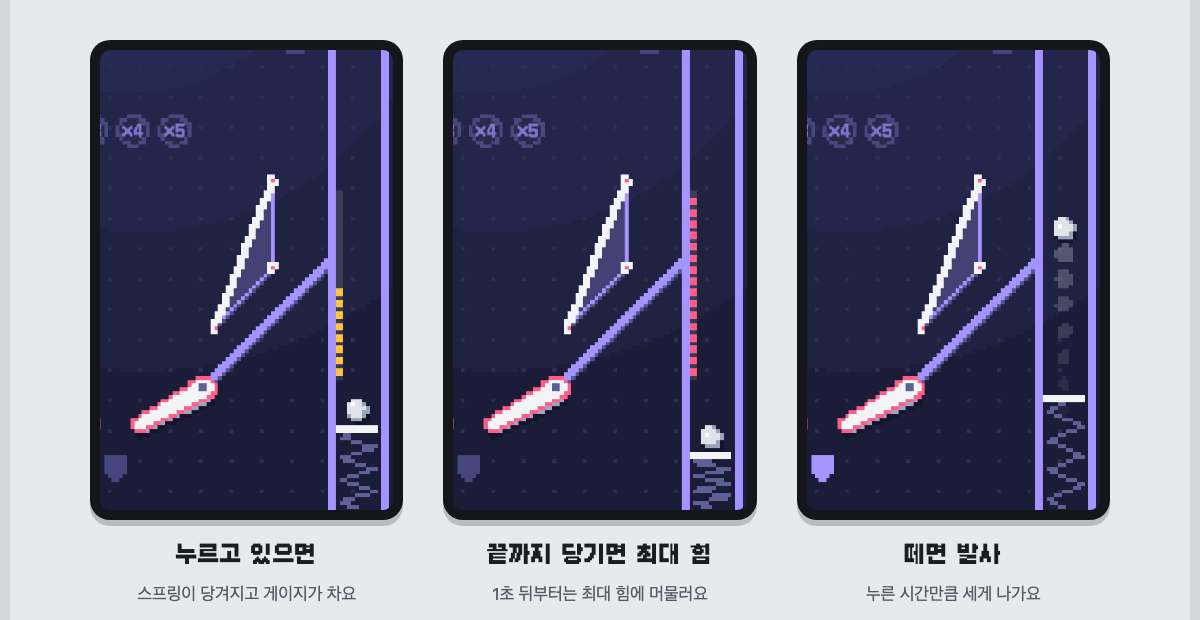
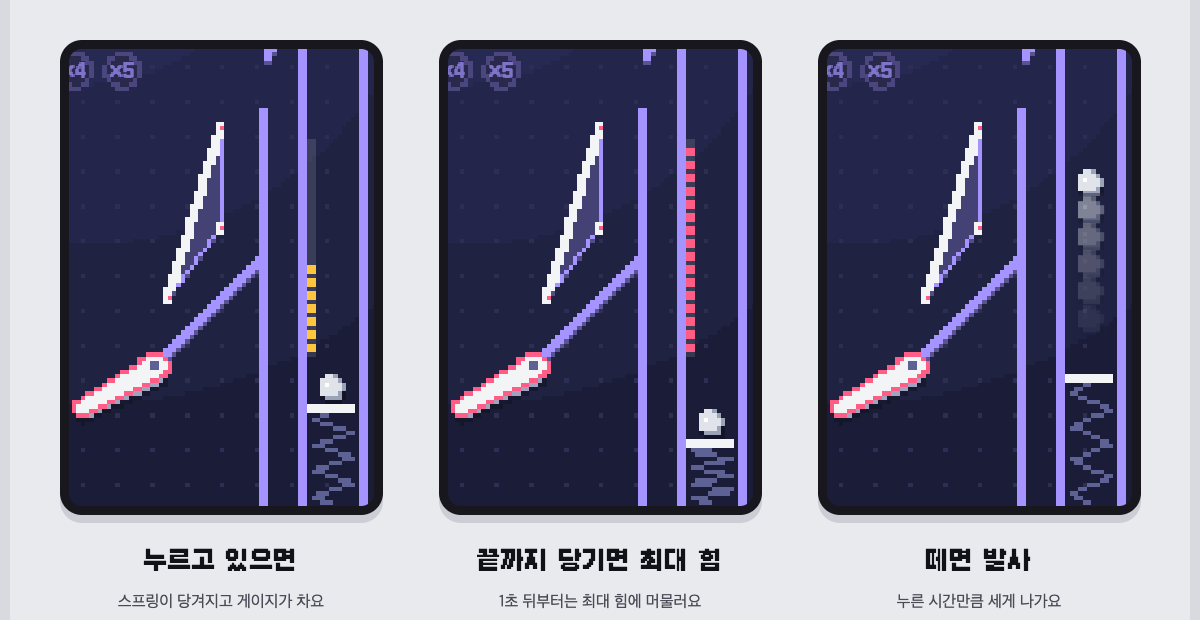
핀볼: README를 새 판에 맞게 고침
- README: 핀볼 기능 목록, 물리·그리기 설명, 폴더 설명
- 그림을 진짜 엔진으로 다시 찍음: 판의 세 구간(pinball-tower.png),
  발사대 설명(pinball-plunger.png), 판 전체와 번호(pinball-tower-plan.png)
- 설계 문서: 5.1 그림과 표, 5.2 좌표, 5.3을 만든 판 기준으로 고치고
  처음 그림과 달라진 곳, 뒤에 정한 것을 적음

Changed region(s): [[0.0308, 0.0613, 0.9558, 0.9806]]

diff --git a/docs/superpowers/specs/2026-11-25-pinball-tower-design.md b/docs/superpowers/specs/2026-11-25-pinball-tower-design.md
@@ -1,6 +1,6 @@
 # 핀볼 새 판 "다락방 타워" 설계
 
-2026-11-25 · 상태: 사용자가 확정하고 진행을 지시함
+2026-11-25 · 상태: 사용자가 확정하고 진행을 지시함 · 만들기 끝 (브랜치 `pinball-tower`, 폰 확인 전)
 
 ## 1. 왜 만드나
 
@@ -61,61 +61,74 @@
 
 ### 5.1 판 한눈에
 
-<img src="../../images/pinball-tower-plan.png" width="402" alt="다락방 타워 판 전체 그림. 번호는 아래 표와 이어져요" />
+<img src="../../images/pinball-tower-plan.png" width="400" alt="다락방 타워 판 전체 그림. 번호는 아래 표와 이어져요" />
+
+만든 판을 그대로 그린 그림이에요 (처음 설계할 때 보여 준 그림에서 램프와 보너스 구멍의 자리가 달라졌어요. 아래 "처음 그림과 달라진 곳"에 적었어요).
 
 | 번호 | 장치 | 하는 일 |
 |---|---|---|
-| 1 | 램프 | 왼쪽 플리퍼로 넣으면 2층 다락으로 올라가요 |
+| 1 | 램프 | 판 가운데에 곧게 서 있어요. 어느 플리퍼로든 가운데로 쳐 올리면 2층 다락으로 올라가요 |
 | 2 | 2층 범퍼 3개 | 올라온 공을 알아서 튕겨요 |
 | 3 | 자동 키커 | 슬링샷처럼 공이 닿으면 알아서 위로 차 올려요 |
 | 4 | 2층 타깃 3개 | 다 맞히면 잭팟 구멍에 불이 켜져요 |
 | 5 | 2층 잭팟 구멍 | 불이 켜졌을 때 들어가면 다락 잭팟 |
 | 6 | 출구와 내려오는 레일 | 다락 출구로 빠진 공을 왼쪽 플리퍼 쪽으로 내려보내요 |
-| 7 | 범퍼 5개, 위쪽 레인 4개 | 지금은 3개씩이에요 |
+| 7 | 범퍼 5개, 위쪽 레인 4개 | 예전 판은 3개씩이었어요 |
 | 8 | 돌아가는 길과 스피너 | 왼쪽 벽을 타고 꼭대기로 올라가요. 지나갈 때 스피너가 돌며 점수를 줘요 |
-| 9 | 보너스 구멍 | 들어갈 때마다 정해진 차례대로 보상을 하나 줘요 |
-| 10 | 드롭 타깃 3개 | 다 쓰러뜨리면 오른쪽 잠금 구멍에 불 → 넣으면 멀티볼 (지금과 같음) |
+| 9 | 보너스 구멍 | 들어갈 때마다 정해진 차례대로 보상을 하나 주고, 공을 미끄럼길로 왼쪽 플리퍼까지 내려 줘요 |
+| 10 | 드롭 타깃 3개 | 다 쓰러뜨리면 오른쪽 잠금 구멍에 불 → 넣으면 멀티볼 (예전 판과 같음) |
 | 11 | 옆으로 빠지는 길과 킥백 | 왼쪽은 킥백이 켜져 있으면 한 번 살려 줘요 |
 | 12 | 오른쪽 타깃 3개 | 다 맞히면 킥백이 다시 켜져요 |
 
 장치 수: 플리퍼 2, 슬링샷 2, 자동 키커 1, 범퍼 8(1층 5 + 2층 3), 드롭 타깃 3, 타깃 6(오른쪽 3 + 2층 3), 위쪽 레인 4, 구멍 3(잠금, 보너스, 잭팟), 스피너 1, 램프 1, 레일 1, 킥백 1. 모두 33개.
 
-### 5.2 좌표 초안
+**처음 그림과 달라진 곳** (만들면서 재 보고 바꿨어요. 장치의 종류와 개수는 그대로예요.)
 
-판 좌표는 가로 400, 세로 1300이고 왼쪽 위가 (0, 0)이에요. 아래 값은 그림을 그릴 때 쓴 초안이에요. 만들면서 시뮬레이션과 실제 플레이로 다듬어도 돼요. 다만 장치의 종류·개수와 서로의 위치 관계(무엇이 무엇 옆에 있는지)는 그림대로 지켜요.
+- **램프가 판 가운데에 곧게 서요.** 처음 그림에서는 오른쪽에서 왼쪽으로 휘어 올라갔어요. 플리퍼 가운데쯤으로 친 공은 판 가운데(x 167~193)로 거의 곧게 올라가는데, 휜 램프는 난간에 크게 튕겨서 올라갈 수 있는 타이밍이 0.01~0.02초뿐이었어요. 곧은 램프는 어느 플리퍼로도 0.06초예요.
+- **다락 입구가 아래 오른쪽, 잭팟 구멍이 왼쪽 위로 갔어요.** 램프를 곧게 올라온 공이 오른쪽 벽을 타고 올라가 위쪽 타깃을 쓸고 범퍼로 떨어져요.
+- **보너스 구멍이 왼쪽으로 가고, 공을 뱉는 대신 미끄럼길로 내려 줘요.** 뱉으면 슬링샷이나 플리퍼에 세게 떨어져 가운데로 빠졌어요.
+- **레일이 램프 왼쪽 난간 옆으로 내려와요.** 처음 길은 보너스 구멍 위를 지나갔어요.
+- **바깥 길의 안쪽 벽이 판 바닥까지 이어져요.** 6.2에 이유를 적었어요.
+
+### 5.2 좌표
+
+판 좌표는 가로 400, 세로 1300이고 왼쪽 위가 (0, 0)이에요. 아래는 만든 판의 값이에요. 정본은 `src/pinball/table.ts`예요.
 
 ```text
 바깥 벽      (8,1300) (8,90) (22,50) (50,22) (90,8) (310,8) (350,16) (378,36) (392,64) (392,1300)
 발사 레인    안쪽 벽 x=350, y 180~1300 · 문 (350,180)-(392,140) · 발사대 머리 y=1210
 위쪽 레인    불 x=105,155,205,255 / y=66 · 기둥 x=80,130,180,230,280 / y 44~86
-1층 범퍼     (118,190) (196,160) (274,196) 반지름 22 · (298,300) (262,400) 반지름 20
-돌아가는 길  왼쪽 벽과 안쪽 벽 x=48 (y 340~772) 사이 · 스피너 (29,744) 폭 26
-다락 테두리  (54,345) (175,332) (212,372) (212,565) [램프 입구] (168,610) (150,616) [출구] (116,616) (54,616)
-             램프 입구는 (212,565)~(168,610) 사이, 출구는 (150,616)~(116,616) 사이가 뚫려 있어요
-2층 타깃     가로 막대 3개: x 84~106, 113~135, 142~164 / y 352~358 근처
-2층 잭팟 구멍 (186,402) 반지름 11
-2층 범퍼     (90,438) (152,424) (118,494) 반지름 13
-자동 키커    삼각형 (63,536) (63,606) (110,606). 차는 면은 (110,606)-(63,536)
-램프         가운데 선 (236,806) (232,730) (218,660) (192,592), 폭 36
-레일         (133,620) (122,652) (90,694) (63,742) (58,800) (58,1004) (52,1040)
+1층 범퍼     (118,190) (196,160) (274,196) 반지름 22 · (298,300) (262,400) 반지름 20 · 차는 힘 720
+돌아가는 길  왼쪽 바깥벽과 안쪽 벽 x=48 (y 618~772) 사이. 그 위로는 다락의 왼쪽 테두리(x=48)가 이어받아요 · 스피너 (29,744) 반폭 17
+다락 테두리  (48,345) (175,332) (212,372) (212,596) [입구] (164,612) (142,618) [출구] (108,618) (48,618)
+             램프 입구는 (212,596)~(164,612) 사이, 출구는 (142,618)~(108,618) 사이가 뚫려 있어요
+2층 타깃     가로 막대 3개: x 84~106 / y 358, x 113~135 / y 355, x 142~164 / y 352
+2층 잭팟 구멍 (72,398) 반지름 11
+2층 범퍼     (98,456) (152,430) (126,508) 반지름 13 · 차는 힘 520
+자동 키커    삼각형 (52,532) (52,608) (102,608). 차는 면은 (102,608)-(52,532)
+램프         왼쪽 난간 (146,850) (156,780) (160,700) (164,612) · 오른쪽 난간 (214,850) (206,780) (208,700) (212,596)
+             아래 폭 68, 위 폭 48. 안에서 아래로 당기는 가속 600
+레일         (125,624) (130,680) (132,780) (128,880) (108,970) (70,1012) (52,1040) · 속도 180~620
 오른쪽 타깃  x=344 벽에 세로 막대 3개: y 470~494, 500~524, 530~554
-보너스 구멍  (150,726) 반지름 12
+보너스 구멍  (82,774) 반지름 12 · 미끄럼길 (82,774) (64,850) (54,950) (51,1052) · 속도 240~520
 잠금 구멍    (322,892) 반지름 13
 드롭 타깃    x=24에 세로 막대 3개: y 862~886, 892~916, 922~946
 배율 불      y=1000, x=128,161,194,227 (×2~×5)
 플리퍼       축 (110,1204) (250,1204), 길이 58, 쉬는 각 0.5rad, 올린 각 -0.45rad (오른쪽은 대칭)
 슬링샷       왼쪽 (66,1040) (66,1108) (102,1156). 오른쪽은 x=180 기준 대칭
 안쪽·바깥 길 나눔벽 x=36, y 1030~1129, 이어서 (36,1129)-(104,1198) 경사. 오른쪽은 대칭
+             바깥 길의 안쪽 벽은 (36,1129)에서 판 바닥 (36,1300)까지 이어져요. 오른쪽은 대칭
 지붕 가이드  (8,950)-(34,990), (350,950)-(326,990)
-킥백         왼쪽 바깥 길 아래 (22,1212)
+킥백         감지 구역 x 10~36, y 1196~1300 · 머리 (22,1212) · 올려 보내는 길 (22,1202) (22,1045) (36,1010) (58,985) · 속도 900
 공 살리기 표시 (180,1268)
+동전이 생기는 곳 (70,110)부터 260×200 · (240,440)부터 90×400 · (70,860)부터 230×110
 ```
 
-지금 판의 아래쪽은 벽에서 플리퍼로 바로 이어지는 경사 하나였어요. 새 판은 안쪽 길(플리퍼로 감)과 바깥 길(옆으로 빠짐)로 나뉘어요.
+예전 판의 아래쪽은 벽에서 플리퍼로 바로 이어지는 경사 하나였어요. 새 판은 안쪽 길(플리퍼로 감)과 바깥 길(옆으로 빠짐)로 나뉘어요.
 
 **고친 곳.** 처음 초안은 쉬는 플리퍼 사이 틈(약 15)과 슬링샷 아래 안쪽 길 목(약 13)이 공 지름(18)보다 좁았어요. 위 숫자는 고친 값이에요. 플리퍼는 예전 판과 같은 간격(틈 약 24)이라 가운데로 공이 빠지고, 안쪽 길 목은 약 30이라 공이 플리퍼까지 굴러가요. 테스트(`test/pinball/launch.test.ts`)가 이 두 가지를 지켜요.
 
-**지붕 가이드(내가 정함).** 바깥 길 바로 위에 비스듬한 가이드를 둬요. 벽을 타고 내려온 공은 가이드를 따라 안쪽 길로 가고, 슬링샷 근처에서 옆으로 튕긴 공만 가이드 끝과 나눔벽 사이 틈으로 바깥 길에 들어가요. 바깥 길로 빠지는 일이 드물게 일어나도록 하려는 거예요. 틈의 크기는 6.2의 기준에 맞춰 다듬어요.
+**지붕 가이드(내가 정함).** 바깥 길 바로 위에 비스듬한 가이드를 둬요. 벽을 타고 내려온 공은 가이드를 따라 안쪽 길로 가고, 슬링샷 근처에서 옆으로 튕긴 공만 가이드 끝과 나눔벽 사이 틈으로 바깥 길에 들어가요. 바깥 길로 빠지는 일이 드물게 일어나도록 하려는 거예요.
 
 ### 5.3 물리
 
@@ -130,7 +143,8 @@
 - 램프 안에서는 내리막 방향으로 가속을 더해요 (오르막이라 느려지는 것). 속도가 모자라면 입구로 되굴러 나와요.
 - 꼭대기 선을 위로 넘으면 2층이 돼요 (`level = 1`). 이때 램프 점수를 줘요.
 - 꼭대기 선은 2층 공에게 한 방향 벽이에요. 다락에 올라온 공은 램프로 되돌아 내려가지 않아요.
-- 입구는 깔때기처럼 넓게 벌리고, 아래쪽 방향은 공이 날아오는 방향에 맞춰요. 지금 엔진으로 왼쪽 플리퍼 샷을 재 보니, 램프 입구 높이(플리퍼 축에서 398 위)에서 공의 속도는 약 1,250이고 방향은 위에서 오른쪽으로 10도쯤 기울어요. 가로 위치는 치는 순간에 따라 크게 달라져요 (공이 플리퍼 위에서 1만큼 더 굴러가면 약 10). 입구가 좁으면 맞히기가 너무 어려워요.
+- 다락 출구는 반대로 1층 공에게 벽이에요. 아래에서 곧게 친 공이 램프를 거치지 않고 출구로 다락에 들어가지 못해요.
+- 입구는 아래가 넓고(폭 68) 위로 천천히 좁아져요(폭 48). 난간이 급하게 꺾이면 공이 크게 튕겨서 못 올라가요. 플리퍼 가운데쯤으로 친 공은 판 가운데(x 167~193)로 거의 곧게 올라가서, 램프를 그 자리에 뒀어요. 테스트(`test/pinball/attic.test.ts`)가 왼쪽·오른쪽 플리퍼 모두로 램프에 올릴 수 있는지 지켜요.
 
 **레일.**
 - 다락 출구 틈 바로 아래에 감지 구역을 둬요. 2층 공이 닿으면 레일 타기를 시작해요.
@@ -143,9 +157,10 @@
 - 킥백 불이 켜져 있으면 공을 살려요. 레일과 같은 방식으로, 바깥 길을 거슬러 올라가 틈 밖(왼쪽 슬링샷 위)으로 나가는 정해진 길을 따라 올려 보낸 뒤 놓아줘요. 불은 꺼져요.
 - 불이 꺼져 있으면 공은 그대로 아래로 빠져요.
 - 오른쪽 바깥 길에는 킥백이 없어요.
+- 바깥 길의 안쪽 벽은 판 바닥까지 이어져요. 플리퍼 사이로 빠진 공은 옆으로 날아가도 킥백 자리에 들어가지 못하고, 바깥 길로 내려온 공은 킥백 자리를 비켜 가지 못해요.
 - 킥백 불은 공을 새로 받을 때마다 켜져요.
 
-**구멍 세 개.** 지금 잠금 구멍과 같은 방식이에요. 공이 가운데에 가까이 오면 붙잡고, 잠깐 뒤에 정해진 방향으로 뱉어요. 뱉는 방향은 공이 곧장 빠지지 않는 쪽으로 정해요.
+**구멍 세 개.** 예전 판의 잠금 구멍과 같은 방식이에요. 공이 가운데에 가까이 오면 붙잡고, 잠깐 뒤에 놓아줘요. 잠금 구멍과 잭팟 구멍은 공이 곧장 빠지지 않는 쪽으로 뱉어요. 보너스 구멍은 뱉지 않고 미끄럼길(레일과 같은 정해진 길)로 왼쪽 안쪽 길까지 내려 줘요.
 
 **발사.** 레인이 판 전체 높이(1300)로 길어져요. 꼭대기까지 가려면 1,440쯤의 속도가 필요해서 속도 상한을 1,700으로 올렸어요.
 - 3분의 1 넘게 당기면 레인을 빠져나가요 (속도 1,460~1,700). 세게 쏠수록 꼭대기에 빠르게 도착해서 더 왼쪽 레인까지 가요.
@@ -153,7 +168,7 @@
 - 약하게 쏴서 레인으로 되떨어진 공을 잃지 않는 지금 규칙은 그대로예요.
 
 **끼임 방지.**
-- 지금처럼 공이 2.5초 넘게 거의 멈춰 있으면 살짝 튕겨 줘요.
+- 예전 판처럼 공이 2.5초 넘게 거의 멈춰 있으면 살짝 튕겨 줘요. 다만 예전에는 플리퍼를 누르고 있으면 튕겨 주지 않았는데, 이제는 올린 플리퍼 위에 받쳐 둔 공만 봐줘요. 예전 규칙으로는 플리퍼를 연타하는 동안 먼 곳에 낀 공이 풀리지 않았어요.
 - 공이 2층에 20초 넘게 있으면 출구로 보내 레일을 태워요 (내가 정함).
 
 ### 5.4 규칙과 점수
@@ -214,6 +229,7 @@
 - 서버는 바꾸지 않아요.
 - 순위표와 개인 최고 기록은 지우지 않아요. 지금은 닫힌 테스트 단계라 기록이 적고, 지우면 되돌릴 수 없기 때문이에요.
 - 새 판은 예전 판보다 점수가 조금 더 잘 나오게 맞춰요 (6.2). 그러면 예전 기록은 자연스럽게 넘어가요.
+- 다만 공이 올 때마다 누르기만 하는 플레이는 예전 판에서 점수가 훨씬 높았어요 (예전 판은 옆으로 빠지는 길이 없어서 거의 죽지 않았어요. 6.2의 반응 봇). 그런 기록이 있었다면 새 판에서 넘기 어려워요. 2026-11-25에 본 순위표에는 41,530점 하나뿐이라 지금은 문제가 되지 않아요.
 - 지뢰찾기 잠금 점수 30,000점은 그대로 둬요. 새 판에서는 조금 쉬워져요.
 
 ### 5.9 문서
@@ -318,4 +334,10 @@
 - 바깥 길 위에 지붕 가이드를 둬서 옆으로 빠지는 일을 드물게 한다. 킥백은 왼쪽에만 둔다.
 - 새 장치의 점수표(5.4)와 보너스 구멍의 보상 차례. 보너스 구멍을 무작위가 아니게 한 것.
 - 공이 2층에 20초 넘게 있으면 출구로 보낸다.
-- 발사 세기 범위를 올린다.
+- 발사 세기 범위를 올린다. 3분의 1보다 약하게 당긴 발사는 짧게 튀었다 돌아오게 한다.
+- 램프를 판 가운데에 곧게 세우고, 다락 입구와 잭팟 구멍, 보너스 구멍, 레일의 자리를 옮긴다 (5.1 "처음 그림과 달라진 곳").
+- 보너스 구멍은 공을 뱉지 않고 미끄럼길로 내려 준다.
+- 다락 출구를 1층 공에게는 벽으로 한다.
+- 바깥 길의 안쪽 벽을 판 바닥까지 잇는다.
+- 판 위 동전을 3개에서 4개로 늘린다.
+- 플리퍼를 누르고 있어도 먼 곳에 낀 공은 튕겨 준다.

diff --git a/README.md b/README.md
@@ -36,11 +36,16 @@ React 19 · TypeScript · Canvas 2D · Node.js 24 · PostgreSQL · Docker · Git
 
 ### 핀볼
 
-- Canvas 2D로 그리는 자체 물리 엔진 — 범퍼, 슬링샷, 플리퍼, 발사 레인, 판 위에 떨어진 동전
-- 누른 시간만큼 스프링이 당겨지는 발사대 — 오래 누를수록 세게 나가고, 1초 뒤부터는 최대 힘에 머물러요
+- Canvas 2D로 그리는 자체 물리 엔진. 판 "다락방 타워"는 화면보다 길어서(400×1300), 화면이 공을 따라 위아래로 움직여요
+- 장치 33개 — 범퍼 8, 슬링샷 2, 자동 키커, 드롭 타깃 3, 타깃 6, 위쪽 레인 4, 구멍 3, 스피너, 램프, 레일, 킥백. 누르는 건 아래 플리퍼 두 개뿐이에요
+- 램프로 공을 올리면 2층 다락 — 범퍼와 자동 키커가 공을 알아서 튕기고, 타깃 셋을 맞힌 뒤 구멍에 넣으면 다락 잭팟. 출구로 나온 공은 레일을 타고 왼쪽 플리퍼로 내려와요
 - 위쪽 레인 불을 다 켜면 보너스 배율(×2~×5), 드롭 타깃을 다 쓰러뜨리면 구멍에 잠금 불 → 공을 넣으면 멀티볼(점수 2배), 멀티볼 중에 넣으면 잭팟
+- 왼쪽 바깥 길로 빠진 공을 한 번 살려 주는 킥백(오른쪽 타깃 셋을 맞히면 다시 켜져요), 들어갈 때마다 정해진 차례로 보상을 주는 보너스 구멍, 돌아가는 길의 스피너
+- 누른 시간만큼 스프링이 당겨지는 발사대 — 오래 누를수록 세게 나가고, 1초 뒤부터는 최대 힘에 머물러요
 - 발사 직후 공을 잃으면 한 번 돌려주는 공 살리기, 짧은 간격으로 계속 맞히면 쌓이는 콤보
-- 공 3개, 점수 구간마다 보너스 코인
+- 공 3개, 판 위 동전과 점수 구간마다 보너스 코인
+
+![핀볼 판의 세 구간: 꼭대기, 2층 다락, 아래쪽](docs/images/pinball-tower.png)
 
 ![핀볼 발사대: 누르고 있으면 당겨지고, 떼면 발사](docs/images/pinball-plunger.png)
 
@@ -93,6 +98,10 @@ flowchart LR
 ### 1. 직접 만든 핀볼 물리
 
 - 엔진(`src/pinball/engine.ts`)은 DOM에 의존하지 않는 순수 TypeScript로, Canvas 렌더러와 분리했어요. 화면 없이도 시뮬레이션을 돌려 공이 판 밖으로 빠지는 버그를 재현하고 고쳤어요.
+- 판 배치(`table.ts`), 규칙 숫자(`rules.ts`), 물리와 규칙(`engine.ts`), 화면 따라가기(`camera.ts`)를 서로 다른 파일로 나눴어요. 예전 판에서 이어받은 규칙의 테스트(`test/pinball/rules.test.ts`)는 장치 위치를 판 배치에서 읽어 써서, 판을 400×700에서 400×1300으로 바꾸는 동안에도 같은 규칙을 계속 확인했어요.
+- 2층 다락은 겹치는 층이 아니라 같은 평면 위의 닫힌 방이에요. 램프 입구는 올라온 공만, 출구는 다락 안의 공만 지나가는 한 방향 벽이라서 층이 겹치는 충돌 계산이 없어요. 다른 것 위를 지나가는 레일과 킥백, 보너스 구멍의 미끄럼길은 물리 대신 정해진 길(`path.ts`)을 따라 움직여요.
+- 화면이 공을 따라가는 규칙은 순수 함수로 두고, "아래로 떨어지는 공이 닿기 0.2초 전에는 플리퍼가 화면에 보인다"를 테스트로 지켜요.
+- 가짜 플레이어 둘(아무렇게나 누르는 봇, 공이 오면 누르는 봇)로 수백 판을 돌려 공이 끼거나 새는 곳을 찾고 점수와 코인의 균형을 맞췄어요(`test/pinball/soak·balance.test.ts`). 플리퍼 사이로 빠진 공이 옆으로 날아가 왼쪽 킥백을 받던 문제도 이렇게 찾았어요.
 - 벽돌깨기도 같은 구조예요. 규칙(`src/breakout/rules·stages·engine.ts`)은 화면·SDK 없이 `node --test`로 바로 테스트하고, 난수와 스테이지 생성기를 바꿔 끼워 같은 판을 재현해요. 한 프레임을 1/240초씩 나눠 가장 빠른 공도 벽돌을 뚫지 않아요.
 - 한 프레임을 8번 나눠 적분하고 속도 상한을 둬서, 빠른 공이 얇은 벽을 뚫고 지나가지 않게 했어요.
 - 벽과 플리퍼를 두께 있는 선분(캡슐)으로 보고 공과의 최근접점으로 충돌을 계산해요. 움직이는 플리퍼는 표면 속도를 반영해 공을 쳐 올려요.
@@ -122,9 +131,9 @@ flowchart LR
 
 ### 5. 픽셀 그림체를 코드로 그리기
 
-- 게임 판은 1/3 해상도(핀볼 134×234칸, 벽돌깨기 120×200칸) 캔버스에 정수 칸 단위 `fillRect`로만 칠해 가장자리 흐림 없이 칸을 살리고, 이미지 보간을 끈 채 키워서 화면에 올려요. 원·다각형·두꺼운 선은 가로줄 단위로 채우는 간단한 래스터라이저로 그려요.
+- 게임 판은 1/3 해상도(핀볼은 화면에 보이는 134×234칸, 벽돌깨기 120×200칸) 캔버스에 정수 칸 단위 `fillRect`로만 칠해 가장자리 흐림 없이 칸을 살리고, 이미지 보간을 끈 채 키워서 화면에 올려요. 원·다각형·두꺼운 선은 가로줄 단위로 채우는 간단한 래스터라이저로 그려요.
 - 그리기 도구·타격 연출·충돌 판정·게임 루프·일시정지/결과 창은 게임 공용(`src/arcade/`, `src/components/game/`)으로 두고 게임마다 끼워 써요. 핀볼을 공용 모듈로 옮길 때는 옮기기 전후 화면을 픽셀 단위로 비교해 똑같은 걸 확인했어요.
-- 바뀌지 않는 바닥·벽은 판 색이 바뀔 때만 한 번 그려 두고, 점수 팝업·큰 알림 글자만 원래 해상도에서 픽셀 글꼴로 따로 그려요. 매 프레임 칸을 다시 칠해도 데스크톱 브라우저 기준 60fps를 유지해요.
+- 바뀌지 않는 바닥·벽은 판 색이 바뀔 때만 한 번 그려 두고, 점수 팝업·큰 알림 글자만 원래 해상도에서 픽셀 글꼴로 따로 그려요. 핀볼은 판 전체(134×434칸)를 바닥·벽 한 장과 그 위에 올라가는 다락·램프·레일 한 장으로 그려 두고, 화면에 보이는 만큼만 잘라 써요. 매 프레임 칸을 다시 칠해도 데스크톱 브라우저 기준 60fps를 유지해요.
 - 아이콘(16×16)은 문자열 칸 지도로, 홈 화면 게임 그림과 상점 미리보기는 칸 계산으로 만들어요. 같은 색 칸을 SVG `path` 하나로 묶어서 그림 하나의 DOM 노드가 색 수만큼만 생겨요.
 - 색·글꼴·버튼 모양은 디자인 토큰(`src/styles/tokens.css`)과 공통 그림체(`src/styles/arcade.css`)에 모아 둬서, 보라색 테마에서 흰 오락기 테마로 바꿀 때 화면 코드를 거의 건드리지 않았어요.
 
@@ -156,7 +165,7 @@ arcade-box/
 ├─ src/
 │  ├─ platform/         플랫폼 모듈: 인터페이스 · 토스 미니앱 구현 · 안드로이드(Capacitor) 구현
 │  ├─ arcade/           게임 공용: 픽셀 그리기 · 타격 연출 · 충돌 판정 · 캔버스 게임 루프
-│  ├─ pinball/          핀볼 물리 엔진 · 픽셀 렌더러 · 타격 연출
+│  ├─ pinball/          핀볼 판 배치 · 규칙 · 물리 엔진 · 화면 따라가기 · 픽셀 렌더러 · 타격 연출
 │  ├─ minesweeper/      판 로직 · 확대/이동 제스처
 │  ├─ breakout/         벽돌깨기 규칙(스테이지·엔진) · 렌더러 · 타격 연출
 │  ├─ game/             게임 목록·잠금 규칙 · 저장 · 동기화 큐 · 서버 API · 인앱결제 · 광고 · 상점 카탈로그 · 게임별 코인 색
